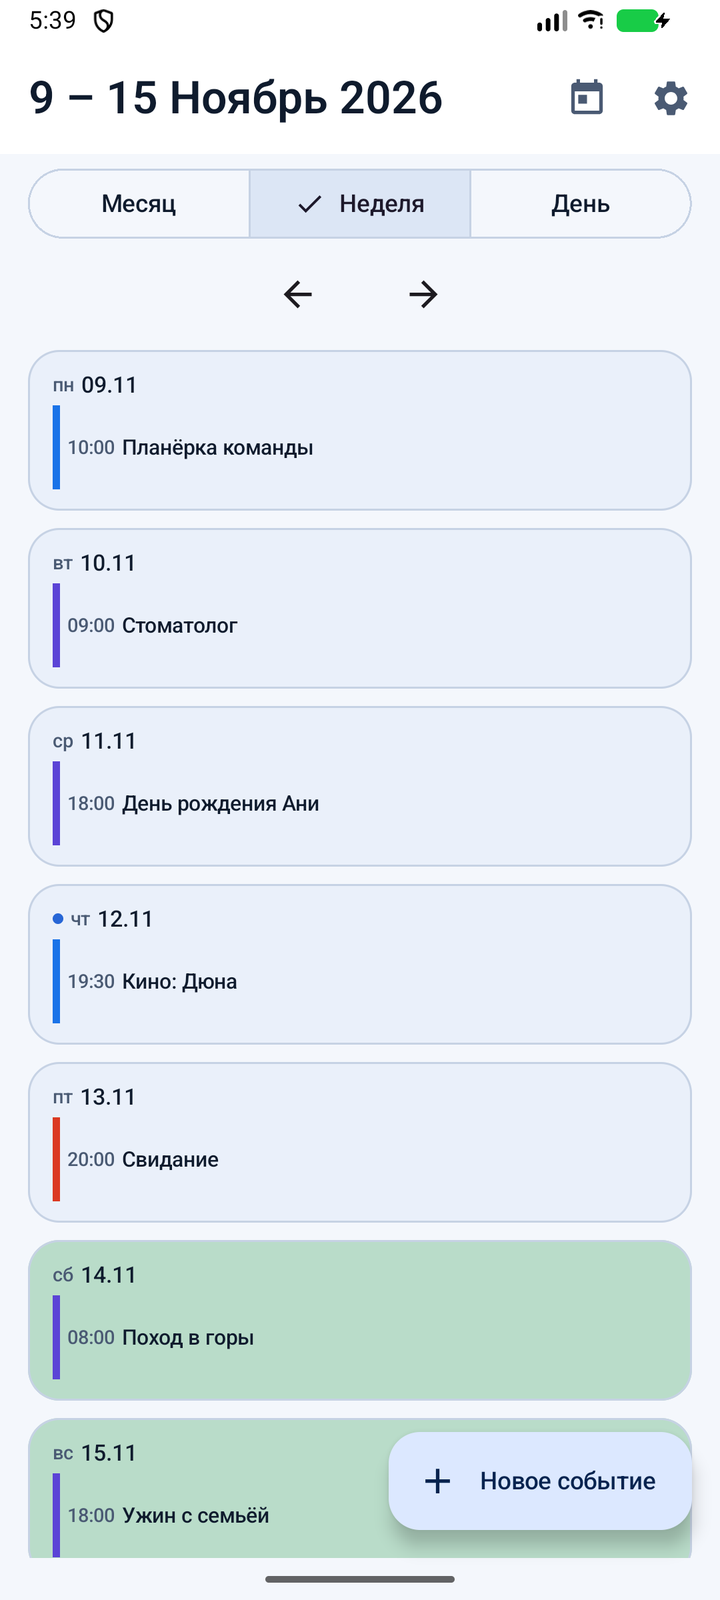
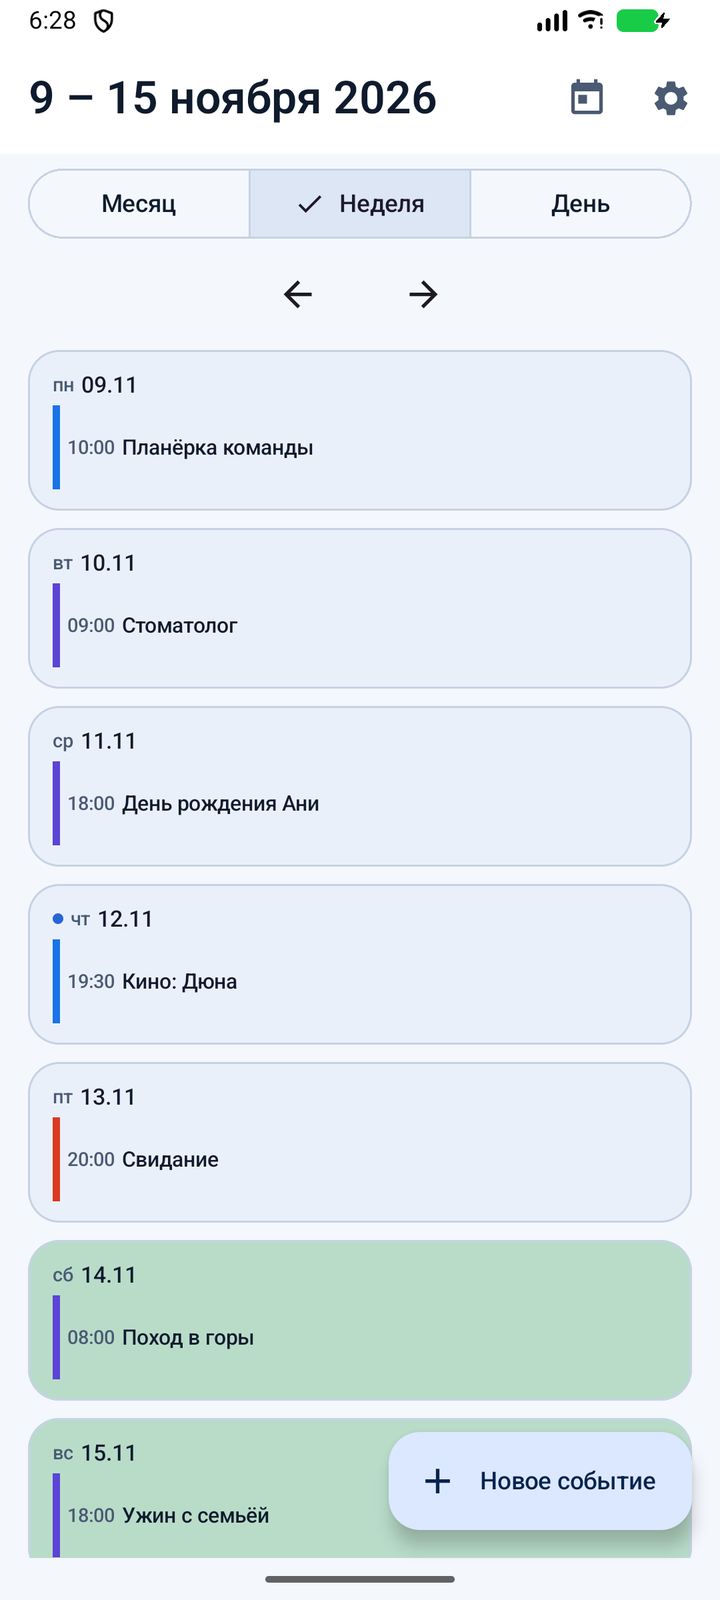
docs: счётчики тестов и скриншоты недели после фиксов
JVM-тестов 136, в списке появились WeekTitleTest и ContestedFieldsLabelTest;
снимки недели в обеих темах пересняты с исправленной шапкой.

Changed region(s): [[0.2444, 0.0312, 0.6111, 0.0938], [0.7639, 0.0, 0.7944, 0.0312], [0.0611, 0.0, 0.0917, 0.0312]]

diff --git a/README.md b/README.md
@@ -166,15 +166,16 @@ keyPassword=...
 
 ## Тесты
 
-- **131 JVM-тест** — решатель конфликтов, репозитории на фейках, CalDAV-клиент против локального
+- **136 JVM-тестов** — решатель конфликтов, репозитории на фейках, CalDAV-клиент против локального
   mock-сервера (`MiniCalDavServer`), OAuth, планировщик напоминаний, сравнение версий и разбор
   ответа GitHub Releases; тонирование выходных и праздников покрыто реестром праздников
   (`HolidayRegistryTest`, 7), тоном дня (`DayMarkToneTest`, 2), контрастом пар палитры
   (`PaletteContrastTest`, 7 — из них 3 теста добавлены этой серией) и границами сетки
   (`CalendarUiStateTest`, 4); сигнал напоминания и признак дня рождения — `BirthdayCalendarTest` (7)
   и `ReminderSoundPolicyTest` (6), имя коллекции из ответа источника — `YandexCalendarDataSourceTest`
-  (6, из них 1 — `calendarName`);
-  итог 131 и 0 падений сняты с отчёта `testDebugUnitTest` (замер 12.11.2026);
+  (6, из них 1 — `calendarName`); текст шапки недели — `WeekTitleTest` (2) и форма счётчика
+  спорных полей — `ContestedFieldsLabelTest` (3);
+  итог 136 и 0 падений сняты с отчёта `testDebugUnitTest` (замер 12.11.2026);
 - **75 instrumented-тестов** — Room-миграции, сквозные сценарии синхронизации на настоящей базе,
   экраны конфликтов, уведомления и действия, системный календарь, переиспользование OAuth-токена,
   сверка подписи скачанного APK на устройстве, карточки события и недельного вида, тон и
